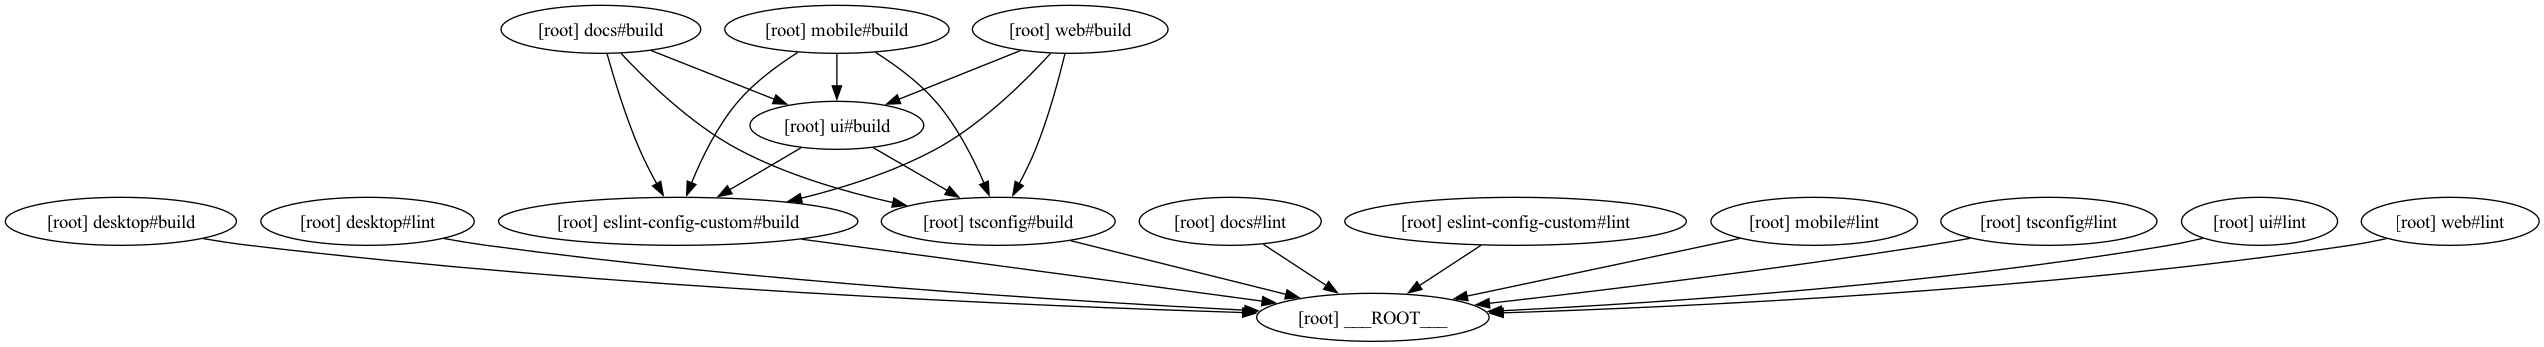
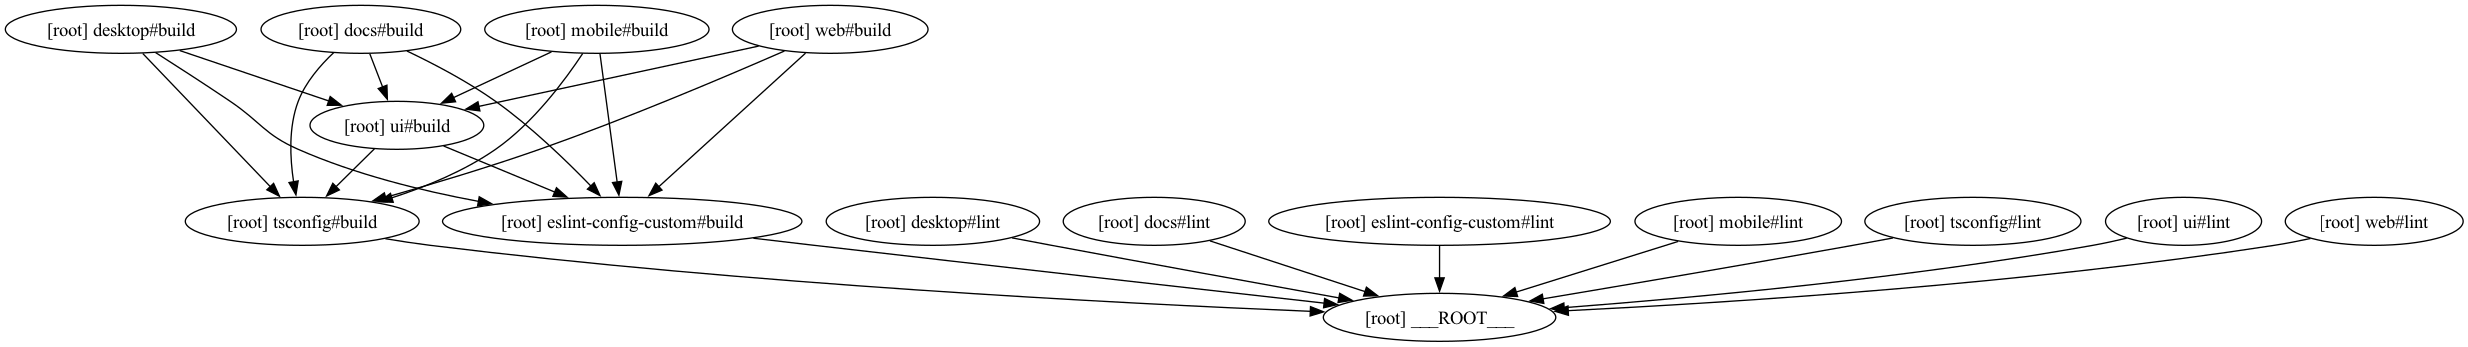
Version 정리, 의존성그래프 테스트, 빌드테스트, 컴포넌트 제작 테스트

diff --git a/apps/mobile/pages/dev/index.tsx b/apps/mobile/pages/dev/index.tsx
@@ -1,0 +1,13 @@
+import type { NextPage } from "next";
+import { Text } from "ui/components/text-sample";
+
+const DevPage: NextPage = () => {
+  return (
+    <div>
+      <h1>Dev</h1>
+      <Text />
+    </div>
+  );
+};
+
+export default DevPage;

diff --git a/packages/ui/components/text-sample.tsx b/packages/ui/components/text-sample.tsx
@@ -1,0 +1,3 @@
+export function Text() {
+  return <h1 style={{ color: "red" }}>This is sample</h1>;
+}
